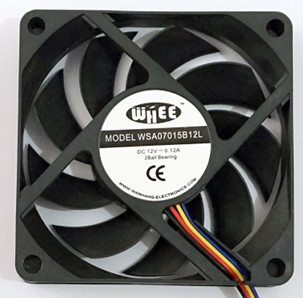
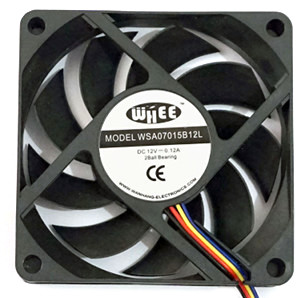
Update fan pictures in pwm page
Fix typo

diff --git a/docs/download.md b/docs/download.md
@@ -33,13 +33,13 @@ Check their [download page](https://github.com/syncloud/platform/wiki) for lates
 
     **Temporary workaround :** Disable UHS option/support.
 
-    *Can be manually enable, refer to the following [section](/sdcard).*
+    *Can be manually enable, refer to the following [page](/sdcard).*
 
 - During SATA heavy load, accessing SPI NOR Flash will generate ATA errors.
 
     **Temporary workaround :** Disable SPI NOR flash.
-    
-    *Can be manually enable, refer to the following [section](/spi).*
+
+    *Can be manually enable, refer to the following [page](/spi).*
 
 - Wake-on-LAN is not yet implemented.
 
